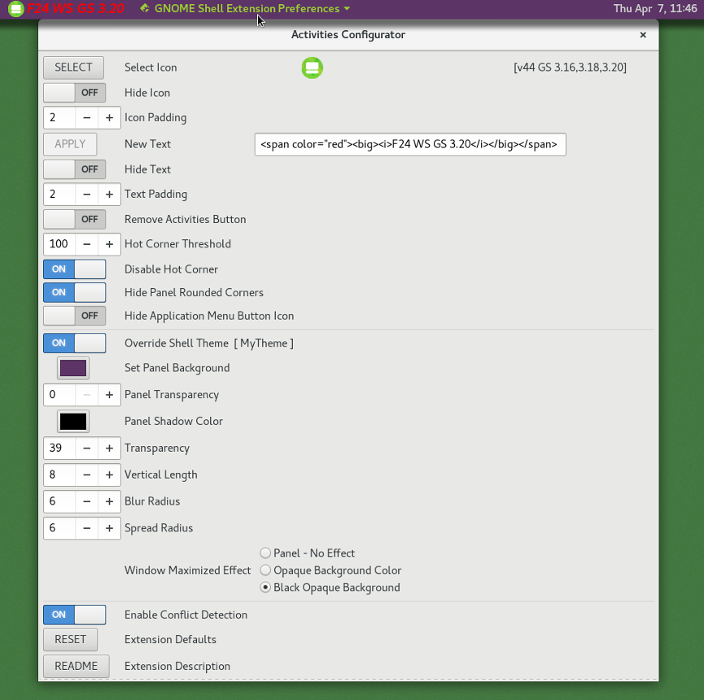
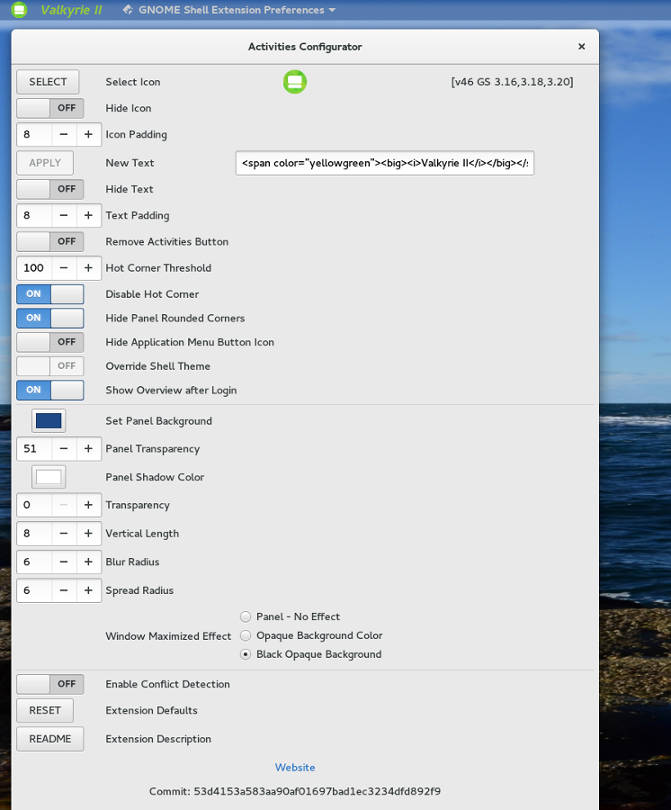
Added Show Overview after Login preference Activities Configurator v46

diff --git a/latestupdate.html b/latestupdate.html
@@ -9,7 +9,12 @@ body {font-family: Verdana, sans-serif; font-size:1.05em; background-color:#EDED
 </style>
 </head>
 <body>
-<h4>Latest Update  Version 44  GS 3.16 3.18 3.20</h4>
+<h4>Latest Update Version 46 3.16 3.18 3.20</h4>
+<p>The <b>Show Overview after Login</b> preference was added to the extension. 
+This option was a user's suggestion that displaying the Overview after login would save 
+a step for users who want access to the the Applications menu and Favorites at the start of their 
+session.</p>
+<h4>Version 44  GS 3.16 3.18 3.20</h4>
 <p>The <b>Override Shell Theme</b> preference was added to the extension.
 The addition of configurable shadow options in version 40 created the need
 to provide an option to allow user control of the actions of the extension

diff --git a/features.html b/features.html
@@ -41,6 +41,7 @@ footer { font-family: Verdana, sans-serif; margin:5px; font-size:0.7em; backgrou
         <li>The Panel's rounded corners can be hidden.</li>
         <li>The application menu button can be hidden.</li>
         <li>The Shell Theme can be optionally overriden.</li>
+        <li>The Overview can be displayed at login.</li>
         <li>The Panel Background can be changed.</li>       
         <li>The Panel background color transparency is adjustable.</li>
         <li>A configurable Shadow Effect can be added to the Panel.</li>

diff --git a/activities_config_zip.html b/activities_config_zip.html
@@ -27,6 +27,10 @@
 <td><h3>Gnome Shell Version(s)</h3></td>
 </tr>
 <tr>
+<td><a href="https://extensions.gnome.org/review/download/6026.shell-extension.zip">v46</a></td><td>&nbsp&nbsp&nbsp</td>
+<td><strong>3.16 3.18 3.20</strong></td>
+</tr>
+<tr>
 <td><a href="https://extensions.gnome.org/review/download/5765.shell-extension.zip">v44</a></td><td>&nbsp&nbsp&nbsp</td>
 <td><strong>3.16 3.18 3.20</strong></td>
 </tr>
